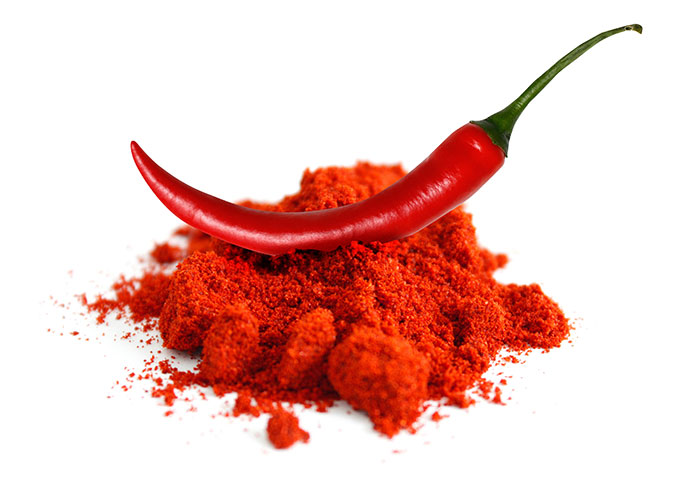
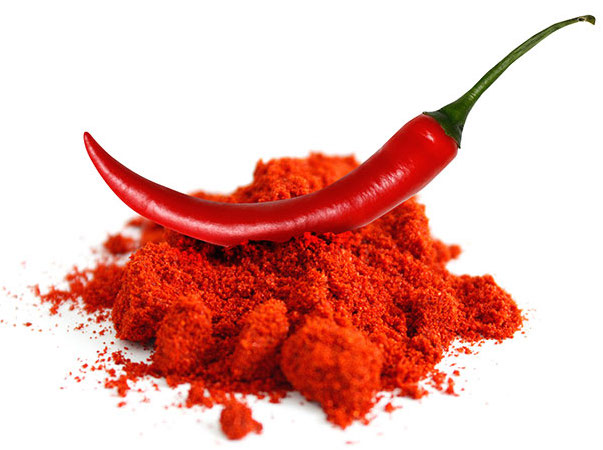
got images in png and added effect when hovering

diff --git a/js/main-barchart.js b/js/main-barchart.js
@@ -294,7 +294,7 @@ function barchart2(selected_ingredient,this_color) {
                 .text(selected_ingredient)
 
             d3.select("#ingredient-image")
-                .attr("src", "./images/" + selected_ingredient.replace(" ","_") + ".jpg")
+                .attr("src", "./images/" + selected_ingredient.replace(" ","_") + ".png")
                 .attr("width","100")
                 .attr("vspace","100px")
 
@@ -390,7 +390,7 @@ function updateVisualization2(selected_ingredient,this_color) {
         .text(selected_ingredient)
 
     d3.select("#ingredient-image")
-        .attr("src", "./images/" + selected_ingredient.replace(" ","_") + ".jpg")
+        .attr("src", "./images/" + selected_ingredient.replace(" ","_") + ".png")
         .attr("width","100")
         .attr("top","150px")
 
@@ -478,7 +478,7 @@ function imagechart(data_i, data_p, selection) {
     imgs.enter()
         .append("svg:image")
         .attr("xlink:href", function (d, i) {
-            return "./images/" + Xdomain[i] + ".jpg"
+            return "./images/" + Xdomain[i] + ".png"
         })
         .attr("width", function (d, i) {
             return 5 * (data_p[i][selection])
@@ -488,7 +488,7 @@ function imagechart(data_i, data_p, selection) {
         })
         .attr("x", function (d, i) {
             if (i < 5) {
-                return i * 250
+                return i * 210
             }
             else if (i > 4 & i < 11) {
                 return (i - 4) * 160
@@ -511,11 +511,49 @@ function imagechart(data_i, data_p, selection) {
         .on("click", function(d,i) {
             updateVisualization2(Xdomain[i].replace(" ", "_"), ing_colors[i]);
         })
-        .on("mouseover", function(){
+        .on("mouseover", function(d,i){
             d3.select(this)
                 .style({"cursor": "pointer"})
-        });
+                .attr("data-we", this.getAttribute("width"))
+                .attr("data-hi", this.getAttribute("height"))
+                .attr("data-x", this.getAttribute("x"))
+                .attr("data-y", this.getAttribute("y"))
+                .attr("width", 300)
+                .attr("height", 300)
+                .attr("x", function(){
+                    if (i < 5) {
+                        return this.getAttribute("x")-20
+                    }
+                    else {
+                        return this.getAttribute("x")-100
+                    }
 
+                } )
+                .attr("y", function(){
+                    if (i < 5) {
+                        return this.getAttribute("y")
+                    }
+                    else if (i > 4 & i < 11) {
+                        return this.getAttribute("y") - 90
+                    }
+                    else {
+                        return this.getAttribute("y") - 120
+                    }
+
+                } )
+        })
+
+
+
+        .on("mouseout", function(){
+            d3.select(this)
+                .attr("width",this.getAttribute("data-we"))
+                .attr("height",this.getAttribute("data-hi"))
+                .attr("x",this.getAttribute("data-x"))
+                .attr("y",this.getAttribute("data-y"))
+
+
+        })
 }
 
 function update_imagechart(data_i, data_p, selection) {
@@ -537,7 +575,7 @@ function update_imagechart(data_i, data_p, selection) {
         .transition()
         .duration(800)
         .attr("xlink:href", function (d, i) {
-            return "./images/" + Xdomain[i] + ".jpg"
+            return "./images/" + Xdomain[i] + ".png"
         })
         .attr("width", function (d, i) {
             return 4 * (data_p[i][selection])
